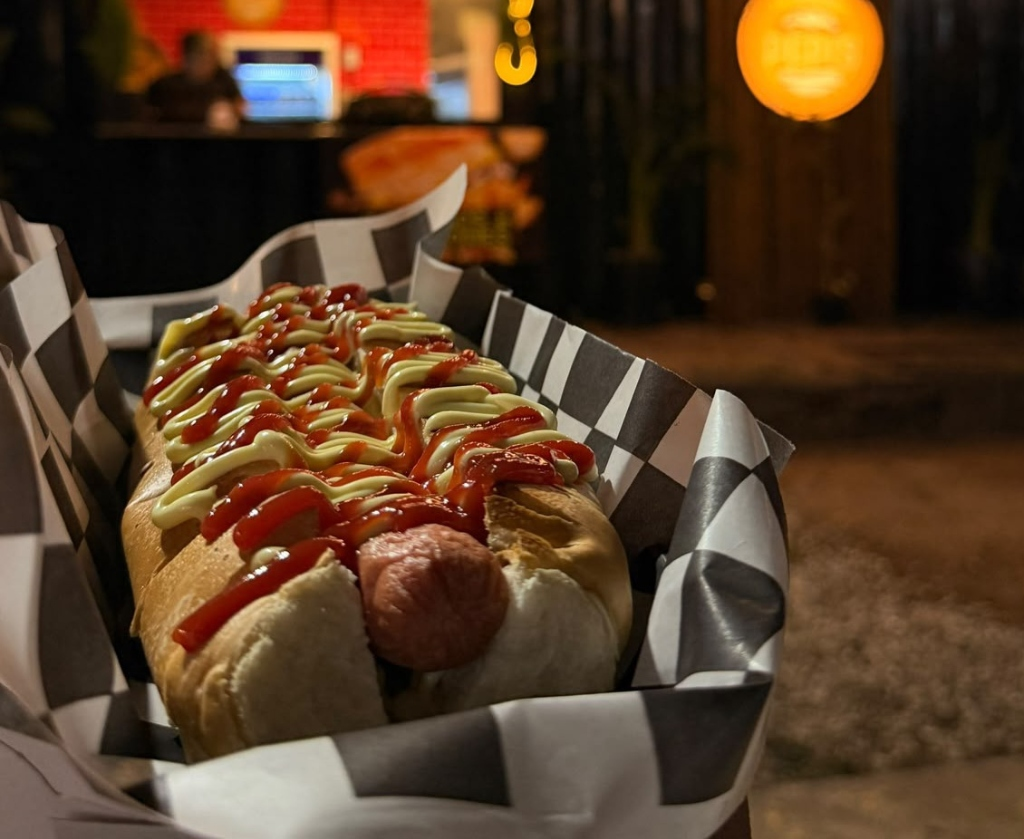
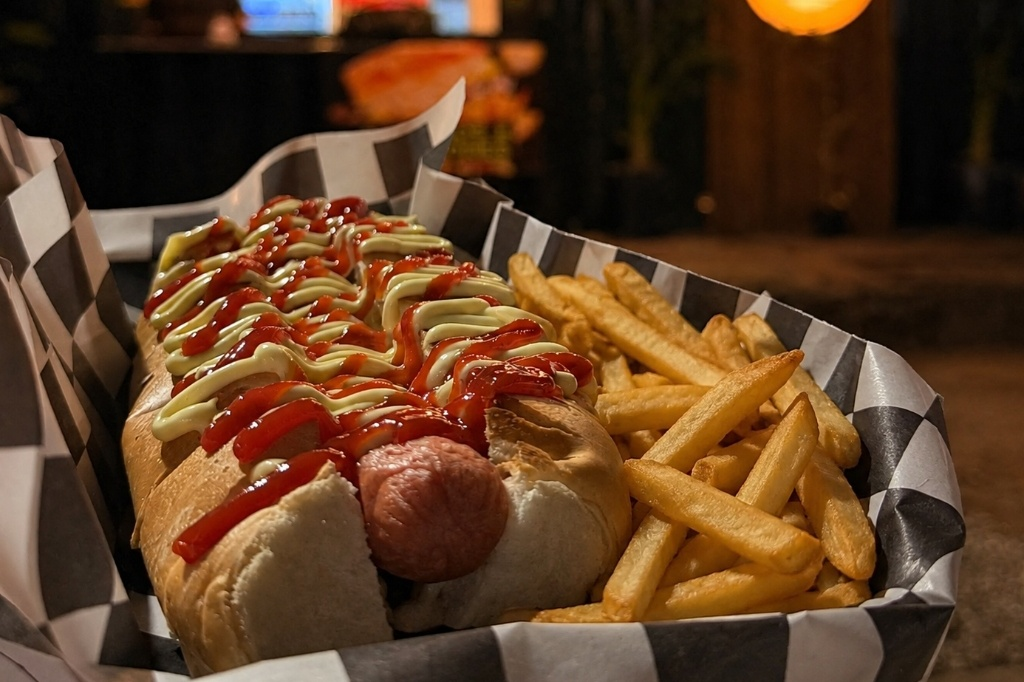
Actualizar fotos de cono de papa y pancho con papas

diff --git a/index.html b/index.html
@@ -384,7 +384,7 @@
 
         <li class="product-card">
           <div class="card-img-wrap">
-            <img src="img/super-pancho.jpg" alt="Súper Pancho con aderezo" class="card-img" loading="lazy" width="600" height="400" />
+            <img src="img/pancho-con-papas.jpg" alt="Súper Pancho con aderezo" class="card-img" loading="lazy" width="600" height="400" />
           </div>
           <div class="card-body">
             <div class="card-header-row">
@@ -397,7 +397,7 @@
 
         <li class="product-card">
           <div class="card-img-wrap">
-            <img src="img/papas-simples.jpg" alt="Cono de papa" class="card-img" loading="lazy" width="600" height="400" />
+            <img src="img/cono-de-papas.jpg" alt="Cono de papa" class="card-img" loading="lazy" width="600" height="400" />
           </div>
           <div class="card-body">
             <div class="card-header-row">
